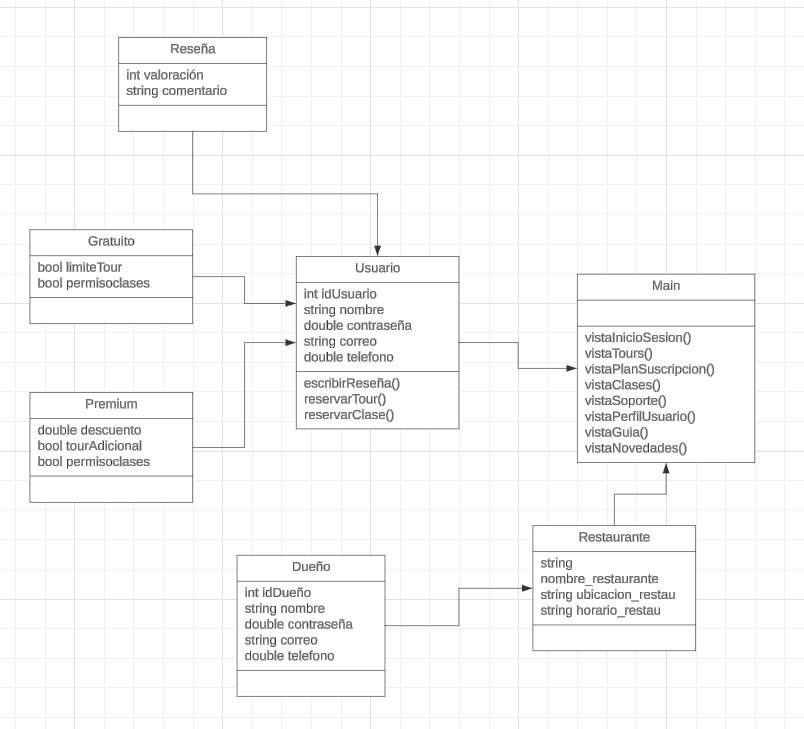
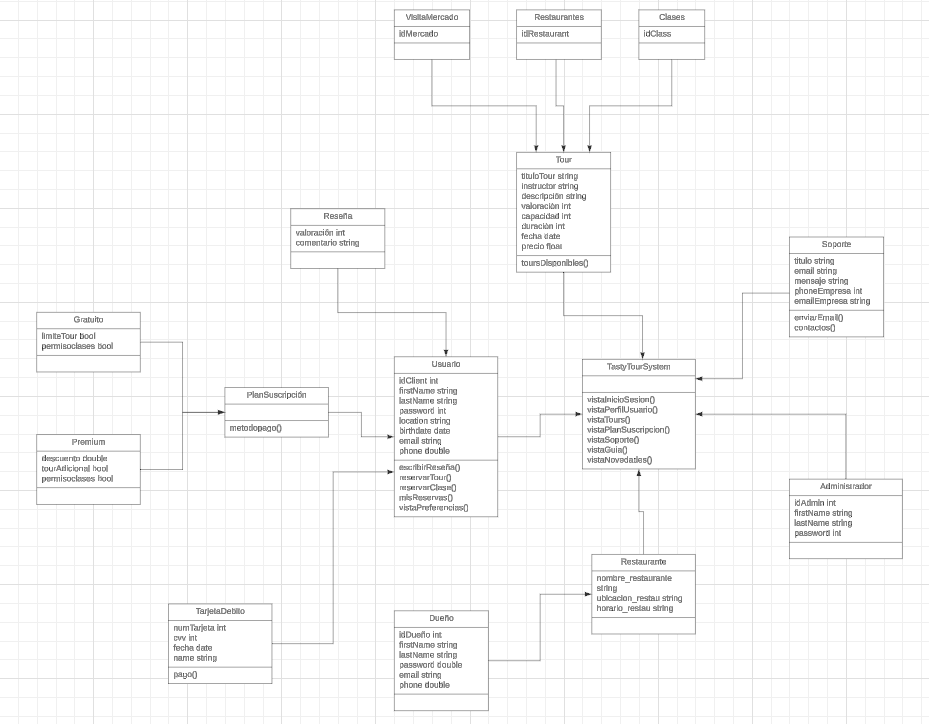
Fix class diagram

diff --git a/README.md b/README.md
@@ -359,11 +359,15 @@ Ser la plataforma líder en el desarrollo de soluciones tecnológicas que empode
 
 ### 4.7.1. Class Diagrams
 
+<td><img src="Images/DiagramaClases.png" alt="Imagen del diagrama de clases" width="900"></td>
+
 ### 4.7.2. Class Dictionary
 
 ## 4.8. Database Design
 
 ### 4.8.1. Database Diagram
+
+<br><br>
 
 # Capítulo V: Product Implementation, Validation & Deployment
 
